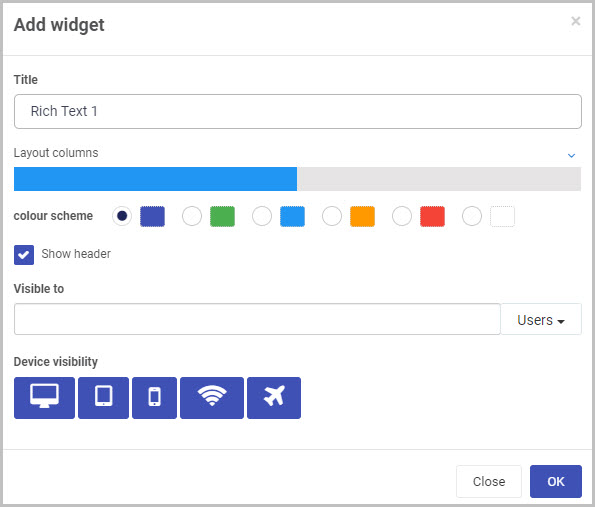
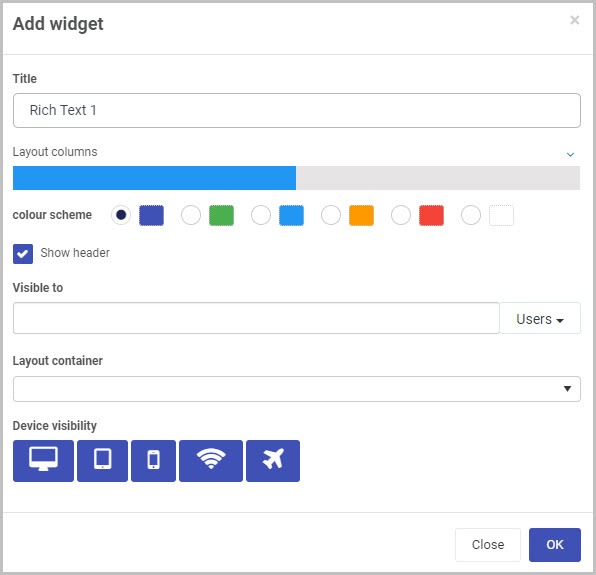
New content re levels of security & layout containers, new link
Inserted new instruction re levels of security and layout container option. Inserted new link to Custom dashboard widget page at bottom. New image inserted.

diff --git a/content/docs/platform/pages/richtext.md b/content/docs/platform/pages/richtext.md
@@ -44,9 +44,23 @@ To add a **Rich Text widget** to a dashboard:
 
      To find out more about pre-defined Groups on Kianda, go to [Users & Groups](/docs/platform/administration/users).
 
-   - **Device visibility** - You can choose what devices and types of internet connections the dashboard **Rich Text widget** will be visible on - select all the options you want from Desktop, Tablet, Mobile, Wi-Fi and Flight mode as to when the device can view the dashboards. By default, all options are selected.
+     - **Note - Dashboard page security**: When a dashboard page is first created, the users(s)/group(s) who will be able to view the dashboard are selected in the '**Visible to**' option in the **Create dashboard page** dialog box (see Step 3 in [How to create a Dashboard page](/docs/platform/pages#how-to-create-a-dashboard-page)). 
 
-     ![Device visibility](/images/devicevisibility.png)
+       You can also edit or update this setting at any point to change who has permission to view a particular dashboard page. This higher dashboard-level security setting will take precedence over the security settings ('Visible to') that are applied to the *individual widgets* within the dashboard (such as the Rich Text widget, in this case).
+
+       See [Dashboard security](/docs/security/process-level-security#dashboard-security) and [Widget security](/docs/security/process-level-security#widget-security) for more information.
+   
+   - **Layout container** - This option will only display if you have already created layout containers for your Dashboard page. Here, you can select which layout container you want your new **Link widget** to be placed in.
+   
+     A layout container is a simple way to organise, arrange and move the widgets you add to your dashboard. To learn more about layout containers, go to [How to add layout containers to a Dashboard page](/docs/platform/pages#how-to-add-layout-containers-to-a-dashboard-page).
+   
+     In this example, we can select to place our new Rich Text widget into one of three layout containers - Top, Middle or Bottom:
+
+		![Dashboard Add widget dialog box select Layout container](/images/dashboard-select-layout-container.jpg)
+		
+	- **Device visibility** - You can choose what devices and types of internet connections the dashboard **Rich Text widget** will be visible on - select all the options you want from Desktop, Tablet, Mobile, Wi-Fi and Flight mode as to when the device can view the dashboards. By default, all options are selected.
+
+![Device visibility](/images/devicevisibility.png)
 
 5. Click on **OK** when you've completed the **Add widget** dialog box.
 
@@ -105,6 +119,7 @@ To move a **Rich Text widget** on a dashboard:
 1. On your dashboard, click on the **Edit current page** button ![Edit button](/images/edit-current-page.jpg) in the top menu to go into [Dashboard Edit mode](/docs/platform/pages#dashboards-edit-mode).
 2. Select the widget's **drag handle** button ![Dashboard widget drag handle button](/images/dashboard-widget-draghandle.jpg). 
 3. Drag and drop the widget where you want it to go on your dashboard. 
+4. Click on **Save** ![Dashboard Save button](/images/dashboard-save-button.jpg) in the dashboard top menu to save the changes you've made.
 
   In our example, we could move the new Rich Text widget to the left of the List widget:
 
@@ -125,6 +140,10 @@ To delete a **Rich Text widget** from your dashboard:
 3. A **Delete widget** dialog box will open. Click on **OK** to delete the widget (or click on **Cancel** if you wish to cancel the deletion).
 
    ![Dashboard Delete widget dialog](/images/dashboard-delete-widget-dialog.jpg)
+
+4. Click on **Save** ![Dashboard Save button](/images/dashboard-save-button.jpg) in the dashboard top menu to save the changes you've made.
+
+   
 
    
 
@@ -166,4 +185,5 @@ Now that you've learned about the **Dashboard Rich Text widget**, find out more 
 - [Link widget](/docs/platform/pages/link/)
 - [List widget](/docs/platform/pages/list/)
 - [Tile widget](/docs/platform/pages/tile/)
-- [Walkthrough widget](/docs/platform/pages/walkthrough)
+- [Walkthrough widget](/docs/platform/pages/walkthrough/)
+- [Custom dashboard widget]( /docs/platform/pages/custom/)
